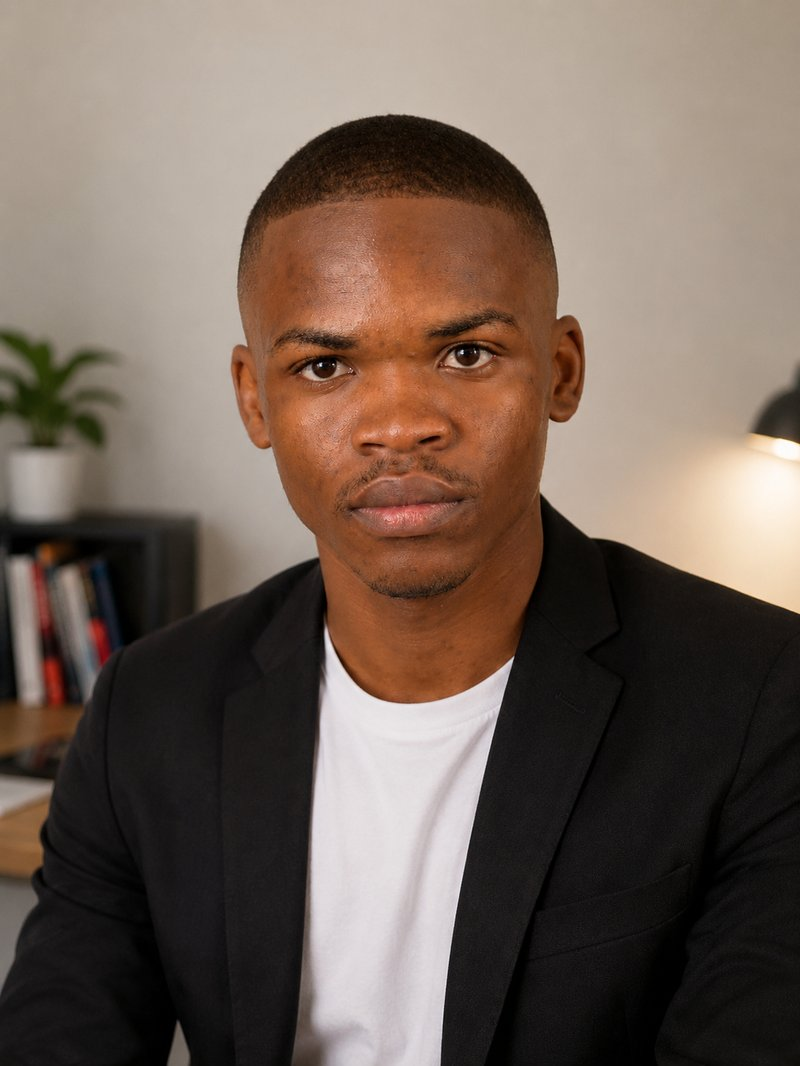
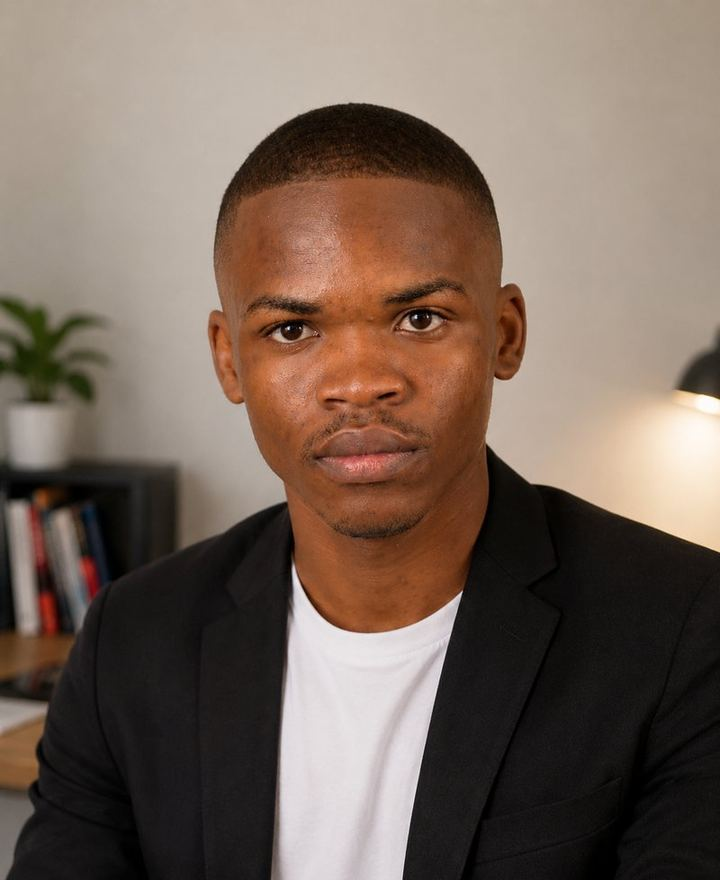
Add files via upload

diff --git a/index.html b/index.html
@@ -49,7 +49,10 @@
   <section class="section-dark">
     <div class="inner">
       <div class="hero-flex">
-        <img src="nathan-headshot.jpg" alt="Nathan Omanga Ndjekondo" width="360" height="440" fetchpriority="high" decoding="async">
+        <picture>
+          <source type="image/webp" srcset="nathan-headshot-360.webp 360w, nathan-headshot-720.webp 720w" sizes="(max-width: 640px) 260px, 360px">
+          <img src="nathan-headshot.jpg" alt="Nathan Omanga Ndjekondo" width="360" height="440" fetchpriority="high" decoding="async">
+        </picture>
         <div class="hero-flex-text">
           <p class="hero-greeting">Hi, I'm</p>
           <h1 class="hero-name">Nathan OMANGA NDJEKONDO</h1>
@@ -154,4 +157,14 @@
       <p class="eyebrow eyebrow-center">Let's Talk</p>
       <h2 class="cta-title">Open to Flight Dispatch trainee &amp; entry-level opportunities</h2>
       <p class="cta-sub">Based in Nairobi, Kenya — open to roles in aviation operations and applied AI.</p>
-      <a class="cta" href="contact.html">Co
+      <a class="cta" href="contact.html">Contact Nathan</a>
+    </div>
+  </section>
+
+</main>
+<footer>&copy; 2026 NATHAN OMANGA NDJEKONDO &middot; <a href="https://www.linkedin.com/in/nathan-omanga/" target="_blank" rel="noopener">LinkedIn</a></footer>
+<script src="nav.js" defer></script>
+<script src="reveal.js" defer></script>
+<script src="main.js" defer></script>
+</body>
+</html>
